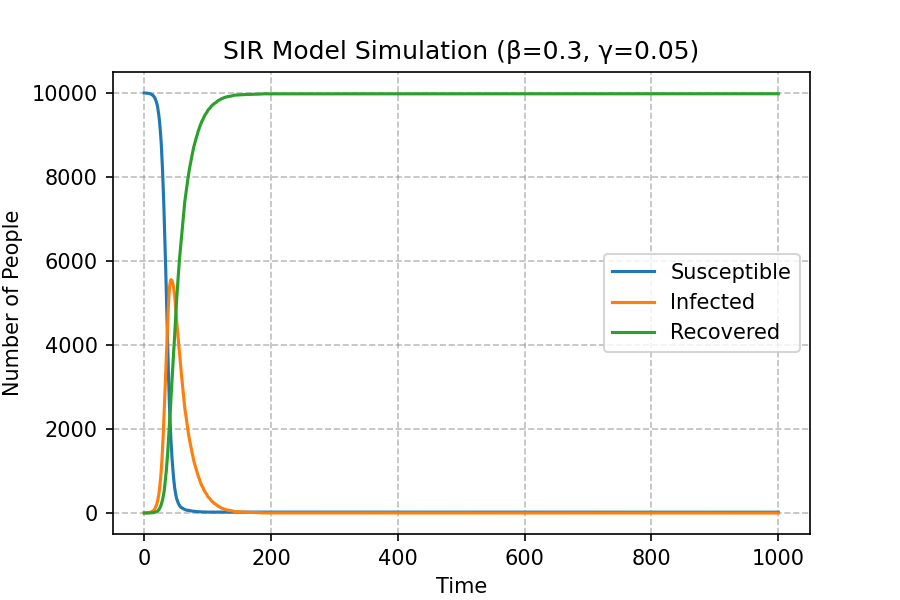
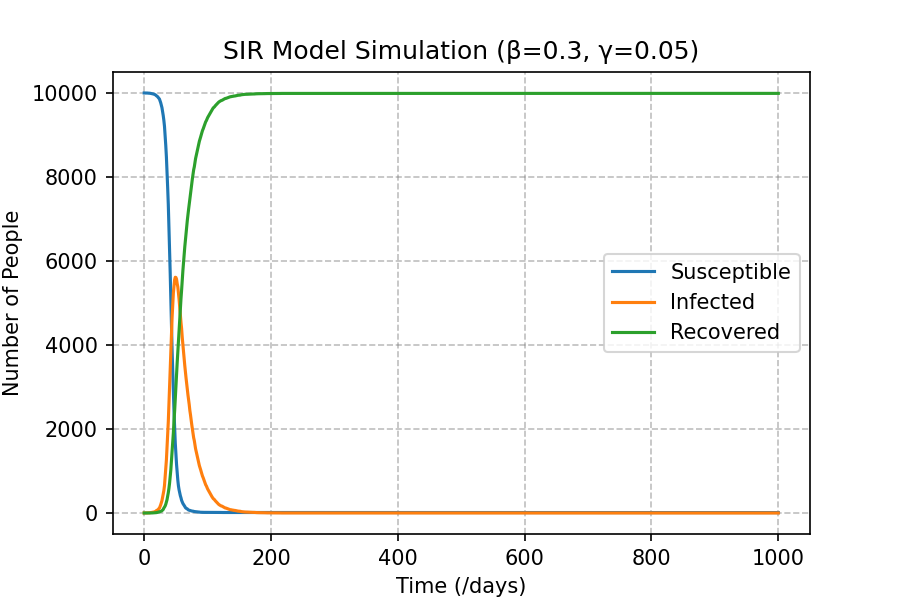
edit SIR

Changed region(s): [[0.1556, 0.15, 0.28, 0.87], [0.2178, 0.15, 0.8711, 0.24], [0.4356, 0.96, 0.5911, 0.99]]

diff --git a/Pracitical6/SIR.py b/Pracitical6/SIR.py
@@ -2,9 +2,8 @@
 # 1.import necessary libraries
 # 2.define the basic variables of the model
 # 3.set initial conditions
-# 4.record time course simulation
+# 4.make and record time course simulation
 # 5.plot results
-# 6.save results
 
 import numpy as np
 import matplotlib.pyplot as plt
@@ -42,7 +41,7 @@ plt.figure(figsize=(6,4), dpi=150) # set up plot's dimensions and resolution
 plt.plot(sus, label='Susceptible')
 plt.plot(inf, label='Infected')
 plt.plot(re, label='Recovered')
-plt.xlabel('Time')
+plt.xlabel('Time (/days)')
 plt.ylabel('Number of People')
 plt.title('SIR Model Simulation (β=0.3, γ=0.05)')
 plt.legend() # show legends
